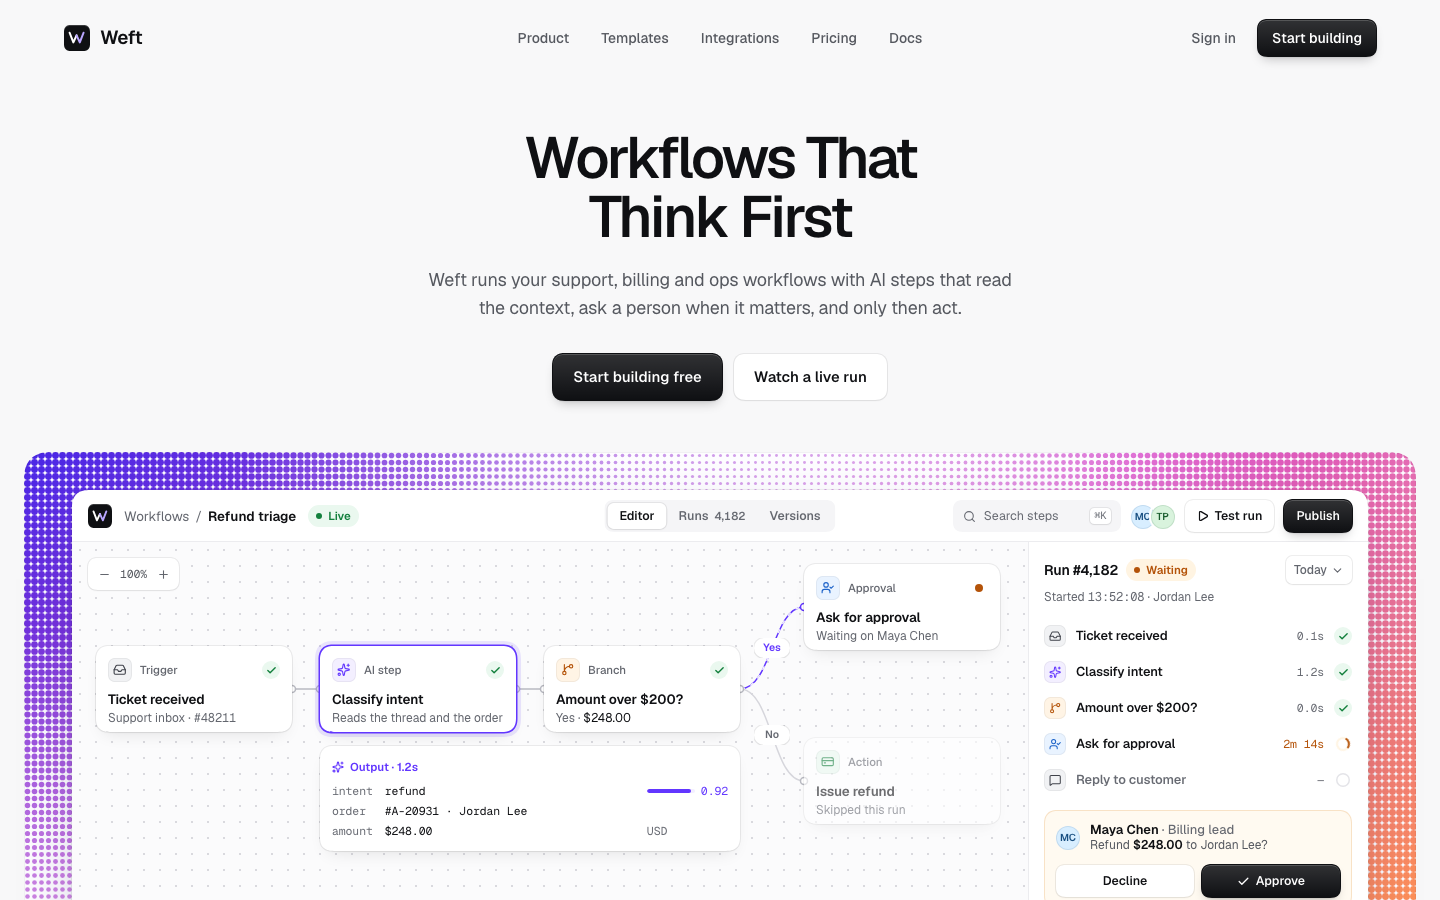
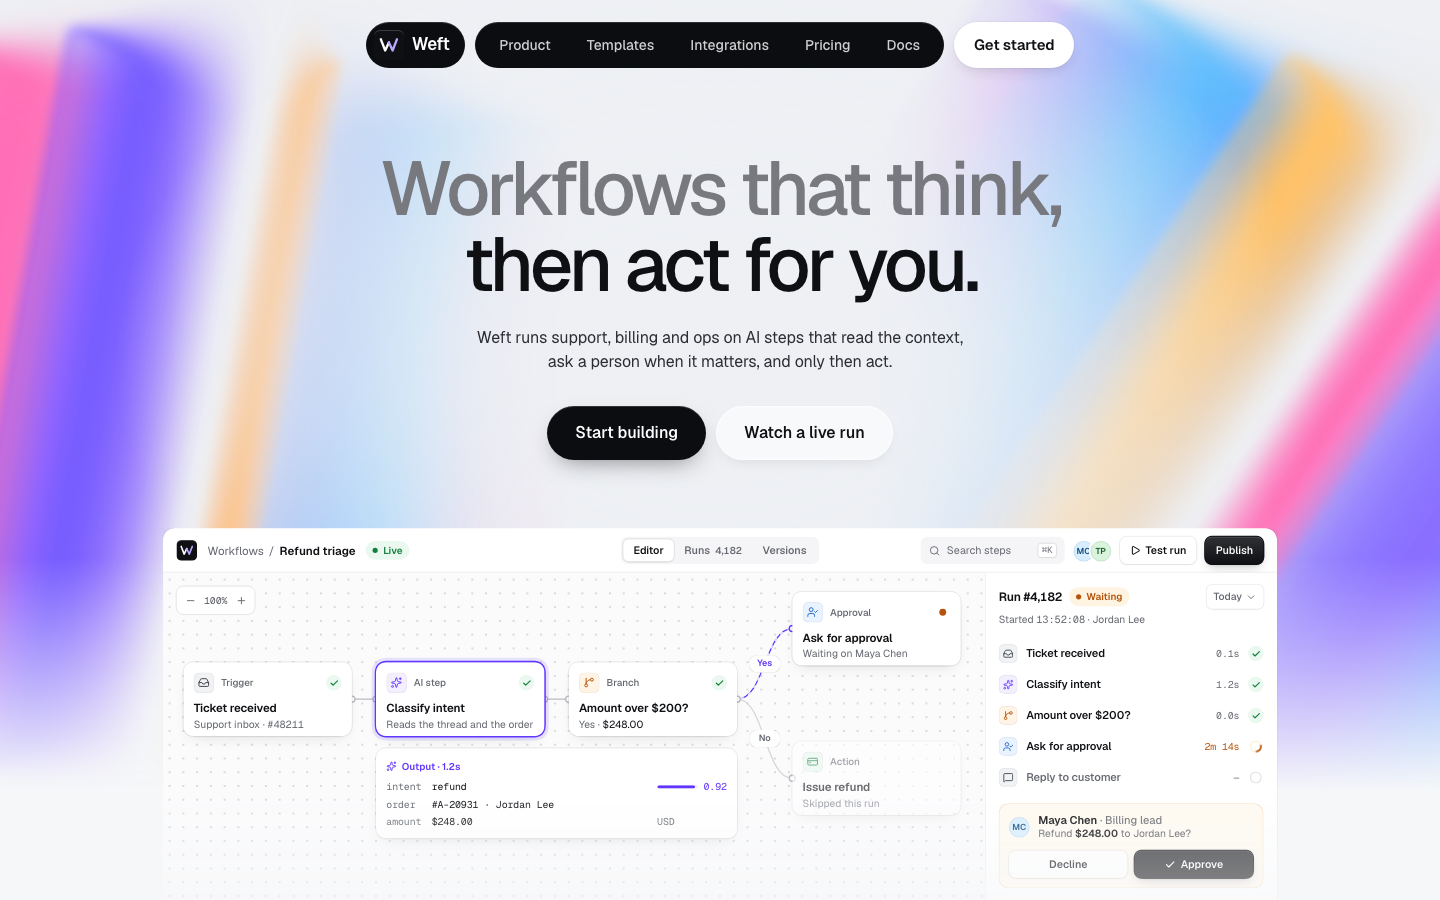
Weft v3: hero replicates Basit's measured Taxo grammar (silk Warp field + grain, Source Serif 4 italic+roman 120/-6px, ringed pill, field arrives last); Marcel-grammar dark tactile 'Add a step' post with a row mid-drag

diff --git a/work/weft/app/src/Hero.tsx b/work/weft/app/src/Hero.tsx
@@ -1,59 +1,76 @@
-// Weft hero (1440x900), Basit grammar (knowledge/web/basit-craft.md, Lowpro pattern): a rendered glass field out of
-// focus at both edges, a misty centre for a big two-tone sentence-case headline at -0.05em, black + frosted pills,
-// and the real product cropped by the fold and dissolving into white (sample data).
+// Weft hero, replicating Basit's Taxo grammar exactly (knowledge/benchmarks/basit/measure/taxo-deep.json):
+// a rendered silk light field, one blue ramp lit from the top, grain in the light and none in the black;
+// a one-line serif headline (italic word + roman word) 120/156 w400 -6px; sub 16/22.4 w300 +0.16px 14px below;
+// one ringed white pill CTA with a blue glow; a 70px frosted nav. The field arrives last, settling from 1.2x.
 import { motion, MotionConfig } from 'motion/react'
 import type { ReactNode } from 'react'
-import Field from './Field'
-import { ease, Logo, Window } from './flow'
+import { Warp } from '@paper-design/shaders-react'
+import { Logo } from './flow'
 
-const T = { field: 0, nav: 0.1, l1: 0.2, l2: 0.35, sub: 0.6, cta: 0.75, win: 0.85, canvas: 1.2 }
-const spring = { type: 'spring', duration: 1.2, bounce: 0 } as const
-const Up = ({ at, y = 40, children, className = '' }: { at: number; y?: number; children: ReactNode; className?: string }) => (
-  <motion.div className={className} initial={{ opacity: 0, y, filter: 'blur(8px)' }} animate={{ opacity: 1, y: 0, filter: 'blur(0px)' }} transition={{ delay: at, ...spring, opacity: { delay: at, duration: 0.6 }, filter: { delay: at, duration: 0.7 } }}>{children}</motion.div>
+const spring = (delay: number, duration = 1.2) => ({ delay, type: 'spring' as const, duration, bounce: 0 })
+const Rise = ({ at, y = 120, children, className = '' }: { at: number; y?: number; children: ReactNode; className?: string }) => (
+  <motion.span className={`inline-block ${className}`} initial={{ opacity: 0, y }} animate={{ opacity: 1, y: 0 }} transition={{ ...spring(at), opacity: { delay: at, duration: 0.6 } }}>{children}</motion.span>
 )
-const GLASS = ['#6f5bff', '#ff6fae', '#4cb3ff', '#ffb36b']
+
+export const Grain = ({ o = 0.7, id = 'g' }: { o?: number; id?: string }) => (
+  <svg aria-hidden className="pointer-events-none absolute inset-0 h-full w-full" style={{ mixBlendMode: 'overlay', opacity: o }}>
+    <filter id={id}><feTurbulence type="fractalNoise" baseFrequency="0.85" numOctaves="3" stitchTiles="stitch" /><feColorMatrix type="saturate" values="0" /></filter>
+    <rect width="100%" height="100%" filter={`url(#${id})`} />
+  </svg>
+)
+
+export function Silk({ frame = 6000, rotation = 200 }: { frame?: number; rotation?: number }) {
+  return (
+    <div aria-hidden className="absolute inset-0 overflow-hidden">
+      <div className="absolute -inset-10" style={{ filter: 'blur(2.5px)' }}>
+        <Warp style={{ width: '100%', height: '100%' }} colors={['#030406', '#0a2f5f', '#2365a4', '#d9e5f5']} shape="edge" shapeScale={0.15} distortion={0.25} swirl={0.6} swirlIterations={10} proportion={0.45} softness={1} rotation={rotation} speed={0} frame={frame} />
+      </div>
+      <div className="absolute inset-0" style={{ background: 'linear-gradient(180deg, transparent 42%, rgb(4 5 6 / 0.85) 72%, #040506 92%)' }} />
+      <Grain />
+    </div>
+  )
+}
+
+/** Taxo pill: 10% white ring, white fill inset 3px, a blue radial glow (blur 15) and stroke at the right */
+export function Pill({ children, w = 176 }: { children: ReactNode; w?: number }) {
+  return (
+    <a href="#" className="group relative grid h-14 place-items-center rounded-[118px] bg-white/10" style={{ width: w }}>
+      <span aria-hidden className="absolute inset-0 rounded-[72px] blur-[15px]" style={{ background: 'radial-gradient(25% 38.4% at 89.6% 39.6%, rgb(59 128 255) 0%, transparent 100%)' }} />
+      <span aria-hidden className="absolute inset-0 rounded-[72px]" style={{ background: 'radial-gradient(17.1% 43% at 89.6% 39.6%, rgb(59 128 255) 0%, transparent 100%)' }} />
+      <span className="absolute inset-[3px] grid place-items-center rounded-[114px] bg-white font-serif text-[16px] font-[600] text-[#080808] transition-colors group-hover:bg-[#f1f4f9]">{children}</span>
+    </a>
+  )
+}
 
 export default function Hero() {
   return (
     <MotionConfig reducedMotion="user">
-      <div className="relative mx-auto h-[900px] w-[1440px] overflow-hidden bg-[#eef0f4]">
-        {/* the light: two glass clusters out of focus, left and right, settling from scale 1.15 (Basit: the field arrives last) */}
-        <motion.div className="absolute inset-0" initial={{ opacity: 0, scale: 1.15 }} animate={{ opacity: 1, scale: 1 }} transition={{ delay: T.field, duration: 1.8, ease: ease.out, opacity: { duration: 1.0 } }}>
-          <div className="absolute -left-[220px] -top-[120px] h-[1100px] w-[860px]" style={{ maskImage: 'linear-gradient(90deg, #000 45%, transparent 92%)' }}><Field w={860} h={1100} colors={GLASS} blur={6} scale={1.15} rotation={100} density={1.5} frame={2400} /></div>
-          <div className="absolute -right-[220px] -top-[80px] h-[1100px] w-[860px]" style={{ maskImage: 'linear-gradient(270deg, #000 45%, transparent 92%)' }}><Field w={860} h={1100} colors={['#4cb3ff', '#8a6cff', '#ff6fae', '#ffc46b']} blur={7} scale={1.15} rotation={124} density={1.5} frame={5200} /></div>
+      <div className="relative mx-auto h-[900px] w-[1440px] overflow-hidden bg-[#040506] text-white" style={{ ['--font-serif' as string]: '"Source Serif 4 Variable", Georgia, serif' }}>
+        <motion.div className="absolute inset-0 origin-[70%_20%]" initial={{ opacity: 0, scale: 1.2 }} animate={{ opacity: 1, scale: 1 }} transition={{ delay: 1.5, duration: 1.5, ease: [0.16, 1, 0.3, 1], opacity: { delay: 1.5, duration: 0.9 } }}>
+          <Silk />
         </motion.div>
-        {/* mist: keeps the reading zone calm and lets the fold fall to white */}
-        <div aria-hidden className="absolute inset-0" style={{ background: 'radial-gradient(42% 46% at 50% 40%, rgb(238 240 244 / 0.92) 30%, rgb(238 240 244 / 0) 100%), linear-gradient(180deg, transparent 62%, #f6f7f9 88%)' }} />
 
-        {/* three-pill nav: black logo, black link capsule, white CTA */}
-        <header className="absolute inset-x-0 top-[22px] z-20 flex justify-center gap-2.5">
-          <Up at={T.nav} y={-30}><a href="#" className="flex h-[46px] items-center gap-2 rounded-full bg-[#0c0d10] pl-2 pr-4 text-[17px] font-[600] tracking-[-0.03em] text-white shadow-[inset_0_1px_0_rgb(255_255_255/0.14)]"><Logo size={30} />Weft</a></Up>
-          <Up at={T.nav + 0.05} y={-30}>
-            <nav aria-label="Main"><ul className="flex h-[46px] items-center gap-1 rounded-full bg-[#0c0d10] px-2 text-[14px] font-[500] text-white/80 shadow-[inset_0_1px_0_rgb(255_255_255/0.14)]">
-              {['Product', 'Templates', 'Integrations', 'Pricing', 'Docs'].map((l) => <li key={l}><a href="#" className="flex h-[34px] items-center rounded-full px-4 transition-colors hover:bg-white/10 hover:text-white">{l}</a></li>)}
-            </ul></nav>
-          </Up>
-          <Up at={T.nav + 0.1} y={-30}><a href="#" className="flex h-[46px] items-center rounded-full bg-white px-5 text-[15px] font-[600] tracking-[-0.01em] shadow-[0_0_0_1px_rgb(15_16_19/0.04),0_6px_16px_-6px_rgb(15_16_19/0.18)]">Get started</a></Up>
-        </header>
+        <motion.header className="absolute inset-x-0 top-0 z-20 flex h-[70px] items-center bg-[rgb(8_8_8/0.7)] px-12 backdrop-blur-[20px]" initial={{ opacity: 0, y: -80 }} animate={{ opacity: 1, y: 0 }} transition={spring(0, 1)}>
+          <a href="#" className="flex items-center gap-2.5 text-[21px] font-[600] tracking-[-0.03em]"><Logo size={30} />Weft</a>
+          <nav aria-label="Main" className="absolute left-1/2 -translate-x-1/2">
+            <ul className="flex items-center gap-10 font-serif text-[16px] font-[300] tracking-[0.01em] text-[#d4d8de]">
+              {['Product', 'Templates', 'Pricing', 'Docs'].map((l) => <li key={l}><a href="#" className="transition-colors hover:text-white">{l}</a></li>)}
+            </ul>
+          </nav>
+          <div className="ml-auto flex items-center gap-1"><Pill>Book a demo</Pill><Pill w={134}>Sign in</Pill></div>
+        </motion.header>
 
-        <main className="absolute inset-x-0 top-[150px] z-10 flex flex-col items-center text-center">
-          <h1 className="text-[76px] font-[500] leading-[1.0] tracking-[-0.05em]">
-            <Up at={T.l1} className="text-[#77797f]">Workflows that think,</Up>
-            <Up at={T.l2}>then act for you.</Up>
+        <main className="absolute inset-x-0 top-[311px] z-10 flex flex-col items-center text-center font-serif">
+          <h1 className="whitespace-nowrap text-[120px] font-[400] leading-[156px] tracking-[-6px]">
+            <Rise at={0.2} className="italic">Thoughtful</Rise> <Rise at={0.4}>automation</Rise>
           </h1>
-          <Up at={T.sub} y={20} className="mt-6"><p className="text-[16px] leading-[24px] tracking-[-0.005em] text-[#2b2d33]">Weft runs support, billing and ops on AI steps that read the context,<br />ask a person when it matters, and only then act.</p></Up>
-          <Up at={T.cta} y={20} className="mt-8 flex items-center gap-2.5 text-[16px]">
-            <a href="#" className="press flex h-[54px] items-center rounded-full bg-[#0c0d10] px-7 font-[550] text-white shadow-[inset_0_1px_0_rgb(255_255_255/0.16),0_10px_24px_-10px_rgb(15_16_19/0.5)]">Start building</a>
-            <a href="#" className="press flex h-[54px] items-center rounded-full bg-white/60 px-7 font-[550] shadow-[inset_0_0_0_1px_rgb(255_255_255/0.7),0_6px_16px_-8px_rgb(15_16_19/0.15)] backdrop-blur-[20px]">Watch a live run</a>
-          </Up>
+          <motion.p className="mt-[14px] text-[16px] font-[300] leading-[22.4px] tracking-[0.16px]" initial={{ opacity: 0, y: 20 }} animate={{ opacity: 1, y: 0 }} transition={{ ...spring(0.8), opacity: { delay: 0.8, duration: 0.6 } }}>
+            AI workflows that read the ticket, check the order, ask the right person, and only then act.
+          </motion.p>
+          <motion.div className="mt-[36px]" initial={{ opacity: 0, y: 20 }} animate={{ opacity: 1, y: 0 }} transition={{ ...spring(1.0), opacity: { delay: 1.0, duration: 0.6 } }}>
+            <Pill>Start building</Pill>
+          </motion.div>
         </main>
-
-        {/* the product, cropped by the fold at ~58% and dissolving into the floor */}
-        <motion.div role="img" aria-label="Weft workflow editor: a refund run paused on an approval (sample data)" className="absolute left-[72px] top-[528px] z-10 h-[560px] w-[1296px]"
-          style={{ scale: 0.86, transformOrigin: '50% 0%', maskImage: 'linear-gradient(180deg, #000 55%, transparent 92%)' }}
-          initial={{ opacity: 0, y: 80 }} animate={{ opacity: 1, y: 0 }} transition={{ delay: T.win, type: 'spring', duration: 1.5, bounce: 0, opacity: { delay: T.win, duration: 0.6 } }}>
-          <Window at={T.canvas} />
-        </motion.div>
       </div>
     </MotionConfig>
   )

diff --git a/work/weft/app/src/Marcel.tsx b/work/weft/app/src/Marcel.tsx
@@ -1,0 +1,94 @@
+// Weft component post in Marcel Kargul's dark tactile grammar (system/product-ui/kargul-tokens.json "dark.tactile";
+// his X component posts: one component at ~40% of a square, a soft light streak, one item caught mid-drag).
+// Square 1000x1000, export at 2x. Sample content.
+import { motion, MotionConfig } from 'motion/react'
+import { Maximize2, Search, Sparkles, PenLine, ScanText, UserCheck, Users, CreditCard, PackageCheck, LayoutGrid, ChevronRight, GripVertical } from 'lucide-react'
+import { Grain } from './Hero'
+
+const ease = [0.16, 1, 0.3, 1] as const
+type Row = { icon: typeof Search; label: string; tone: string; ai?: boolean; lifted?: boolean }
+const SECTIONS: { title: string; rows: Row[] }[] = [
+  { title: 'AI', rows: [
+    { icon: Sparkles, label: 'Classify intent', tone: '#a78bfa', ai: true },
+    { icon: PenLine, label: 'Draft a reply', tone: '#c4b5fd', ai: true },
+    { icon: ScanText, label: 'Extract fields', tone: '#8b9cff', ai: true },
+  ] },
+  { title: 'People', rows: [
+    { icon: UserCheck, label: 'Ask for approval', tone: '#60a5fa', lifted: true },
+    { icon: Users, label: 'Assign to teammate', tone: '#38bdf8' },
+  ] },
+  { title: 'Actions', rows: [
+    { icon: CreditCard, label: 'Issue refund', tone: '#34d399' },
+    { icon: PackageCheck, label: 'Update order', tone: '#fbbf24' },
+  ] },
+]
+
+function Cursor() {
+  // closed-hand grab cursor
+  return (
+    <svg width="30" height="30" viewBox="0 0 26 26" aria-hidden style={{ filter: 'drop-shadow(0 2px 4px rgb(0 0 0 / 0.5))' }}>
+      <path d="M7.5 10.2V9c0-1 .8-1.7 1.7-1.7s1.7.8 1.7 1.7v-.6c0-1 .8-1.7 1.7-1.7s1.7.8 1.7 1.7v.6c0-1 .8-1.7 1.7-1.7s1.7.8 1.7 1.7v1c0-.9.8-1.6 1.6-1.6.9 0 1.6.7 1.6 1.6v5.2c0 3.6-2.9 6.5-6.5 6.5h-1.4c-1.9 0-3.6-.9-4.8-2.4l-2.7-3.5c-.6-.8-.5-1.9.3-2.5.7-.6 1.8-.5 2.4.2l.5.6v-3.6Z" fill="#fff" stroke="#0c0c0f" strokeWidth="1.3" strokeLinejoin="round" />
+    </svg>
+  )
+}
+
+const RowView = ({ r, ghost = false }: { r: Row; ghost?: boolean }) => (
+  <div className="flex h-11 items-center gap-3 px-3">
+    <r.icon size={19} strokeWidth={1.8} style={{ color: r.tone, opacity: ghost ? 0.35 : 1 }} />
+    <span className={`text-[16px] font-[500] tracking-[-0.01em] ${ghost ? 'text-white/25' : 'text-white/90'}`}>{r.label}</span>
+    {r.ai && !ghost && <span className="ml-auto rounded-[6px] bg-[rgb(139_92_246/0.14)] px-1.5 py-0.5 text-[11px] font-[600] tracking-[0.02em] text-[#b9a6ff] shadow-[inset_0_0_0_1px_rgb(167_139_250/0.2)]">AI</span>}
+  </div>
+)
+
+export default function Marcel() {
+  return (
+    <MotionConfig reducedMotion="user">
+      <div className="relative overflow-hidden bg-[#0c0c0f]" style={{ width: 1000, height: 1000, fontFamily: '"Inter Variable", system-ui, sans-serif', fontFeatureSettings: '"cv11", "ss01"' }}>
+        {/* light streak from the top left, and a faint floor */}
+        <div aria-hidden className="absolute inset-0" style={{ background: 'linear-gradient(128deg, rgb(255 255 255 / 0.15) 0%, rgb(255 255 255 / 0.05) 20%, transparent 42%), radial-gradient(60% 40% at 50% 100%, rgb(80 22 255 / 0.10), transparent 70%)' }} />
+        <Grain o={0.35} id="mg" />
+
+        <motion.section aria-label="Add a step, sample content" className="absolute left-1/2 top-[118px] w-[420px] -translate-x-1/2 rounded-[22px] bg-[#141417]"
+          style={{ boxShadow: '0 0 0 1px #050506, inset 0 1px 0 rgb(255 255 255 / 0.07), inset 0 0 0 1px rgb(255 255 255 / 0.04), 0 40px 80px -24px rgb(0 0 0 / 0.8)', backgroundImage: 'linear-gradient(140deg, rgb(255 255 255 / 0.05), transparent 30%)' }}
+          initial={{ opacity: 0, y: 24 }} animate={{ opacity: 1, y: 0 }} transition={{ duration: 1.2, ease }}>
+          <div className="flex h-[68px] items-center justify-between px-6 shadow-[inset_0_-1px_0_rgb(255_255_255/0.06)]">
+            <span className="text-[19px] font-[550] tracking-[-0.015em] text-white">Add a step</span>
+            <Maximize2 size={17} className="text-white/45" />
+          </div>
+          <div className="px-5 pt-5">
+            <div className="flex h-11 items-center gap-2.5 rounded-[12px] bg-white/[0.03] px-3.5 text-[15px] text-white/40 shadow-[inset_0_0_0_1px_rgb(255_255_255/0.06)]">
+              <Search size={16} />Search steps<span className="ml-auto rounded-[6px] bg-white/[0.06] px-1.5 py-0.5 text-[11.5px] text-white/45">⌘K</span>
+            </div>
+          </div>
+          <div className="px-3 pb-3 pt-2">
+            {SECTIONS.map((s) => (
+              <div key={s.title} className="pt-4">
+                <div className="px-3 pb-1.5 text-[12.5px] font-[500] uppercase tracking-[0.06em] text-white/40">{s.title}</div>
+                {s.rows.map((r) => r.lifted
+                  ? <div key={r.label} className="rounded-[12px] bg-white/[0.02] shadow-[inset_0_0_0_1px_rgb(255_255_255/0.04)]"><RowView r={r} ghost /></div>
+                  : <RowView key={r.label} r={r} />)}
+              </div>
+            ))}
+          </div>
+          <div className="flex h-[60px] items-center gap-3 px-6 shadow-[inset_0_1px_0_rgb(255_255_255/0.06)]">
+            <LayoutGrid size={18} className="text-white/55" />
+            <span className="text-[16px] font-[500] text-white/85">Browse templates</span>
+            <ChevronRight size={18} className="ml-auto text-white/40" />
+          </div>
+        </motion.section>
+
+        {/* the lifted row, mid-drag, out past the card edge */}
+        <motion.div className="absolute flex h-[52px] w-[372px] items-center gap-3 rounded-[14px] px-4"
+          style={{ left: 352, top: 500, background: 'linear-gradient(180deg, #27272e, #1b1b20)', boxShadow: '0 0 0 1px #050506, inset 0 1px 0 rgb(255 255 255 / 0.10), inset 0 0 0 1px rgb(255 255 255 / 0.05), 0 24px 48px -12px rgb(0 0 0 / 0.75), 0 8px 16px -8px rgb(0 0 0 / 0.6)', rotate: -1.5 }}
+          initial={{ opacity: 0, x: -60, y: 0 }} animate={{ opacity: 1, x: 0, y: 0 }} transition={{ delay: 0.6, duration: 1.1, ease }}>
+          <UserCheck size={20} strokeWidth={1.8} style={{ color: '#60a5fa' }} />
+          <span className="text-[17px] font-[550] tracking-[-0.01em] text-white">Ask for approval</span>
+          <GripVertical size={18} className="ml-auto text-white/45" />
+        </motion.div>
+        <motion.div className="pointer-events-none absolute" style={{ left: 654, top: 528 }} initial={{ opacity: 0, x: -60 }} animate={{ opacity: 1, x: 0 }} transition={{ delay: 0.6, duration: 1.1, ease }}>
+          <Cursor />
+        </motion.div>
+      </div>
+    </MotionConfig>
+  )
+}

diff --git a/work/weft/app/src/Lab.tsx b/work/weft/app/src/Lab.tsx
@@ -1,20 +1,30 @@
-// Field lab (#/lab): four field variants side by side at hero proportions, to pick by eye before building.
-import Field, { type FieldProps } from './Field'
+// Field lab (#/lab): Taxo-grammar silk fields (one blue ramp, lit top right, falling to black), fine grain in the light only.
+import { Warp } from '@paper-design/shaders-react'
 
-const V: (Partial<FieldProps> & { name: string; bg: string })[] = [
-  { name: 'glass default', bg: '#eef0f4' },
-  { name: 'glass, cool, big', bg: '#eceef3', colors: ['#5b6cff', '#9b7bff', '#59c3ff', '#ff8fc8'], scale: 1.6, rotation: 90, blur: 22 },
-  { name: 'glass warm sides', bg: '#f1eff2', colors: ['#ff7a59', '#ff4fa0', '#8a6cff', '#ffc46b'], scale: 1.3, rotation: 128, offsetY: 0.1, blur: 14 },
-  { name: 'glass sharp', bg: '#eef0f4', blur: 4, scale: 1.2 },
-]
+const RAMP = ['#030406', '#0a2f5f', '#2365a4', '#cfe0f5']
+const V = [
+  { name: 'edge .15', shape: 'edge', shapeScale: 0.15, distortion: 0.25, swirl: 0.6, proportion: 0.45, rotation: 200 },
+  { name: 'edge .3', shape: 'edge', shapeScale: 0.3, distortion: 0.35, swirl: 0.9, proportion: 0.5, rotation: 220 },
+  { name: 'stripes', shape: 'stripes', shapeScale: 0.12, distortion: 0.3, swirl: 0.7, proportion: 0.42, rotation: 210 },
+  { name: 'checks', shape: 'checks', shapeScale: 0.08, distortion: 0.2, swirl: 0.8, proportion: 0.45, rotation: 200 },
+] as const
+
+export const Grain = ({ o = 0.32 }: { o?: number }) => (
+  <svg aria-hidden className="pointer-events-none absolute inset-0 h-full w-full" style={{ mixBlendMode: 'overlay', opacity: o }}>
+    <filter id="grain"><feTurbulence type="fractalNoise" baseFrequency="0.9" numOctaves="3" stitchTiles="stitch" /><feColorMatrix type="saturate" values="0" /></filter>
+    <rect width="100%" height="100%" filter="url(#grain)" />
+  </svg>
+)
 
 export default function Lab() {
   return (
     <div className="grid grid-cols-2 gap-4 bg-white p-4">
-      {V.map(({ name, bg, ...p }) => (
-        <div key={name} className="relative overflow-hidden rounded-[16px]" style={{ width: 720, height: 450, background: bg }}>
-          <Field w={720} h={450} {...p} />
-          <span className="absolute left-3 top-3 rounded-full bg-white/80 px-2 py-1 text-[12px]">{name}</span>
+      {V.map((v) => (
+        <div key={v.name} className="relative overflow-hidden rounded-[16px]" style={{ width: 720, height: 450 }}>
+          <Warp style={{ width: '100%', height: '100%' }} colors={[...RAMP]} shape={v.shape} shapeScale={v.shapeScale} distortion={v.distortion} swirl={v.swirl} swirlIterations={10} proportion={v.proportion} softness={1} rotation={v.rotation} speed={0} frame={6000} />
+          <div className="absolute inset-0" style={{ background: 'linear-gradient(180deg, transparent 45%, #030406 95%)' }} />
+          <Grain />
+          <span className="absolute left-3 top-3 rounded-full bg-white/80 px-2 py-1 text-[12px]">{v.name}</span>
         </div>
       ))}
     </div>

diff --git a/work/weft/app/src/index.css b/work/weft/app/src/index.css
@@ -1,11 +1,15 @@
 @import "tailwindcss";
 @import "@fontsource-variable/geist";
+@import "@fontsource-variable/inter/opsz.css";
 @import "@fontsource-variable/geist-mono";
+@import "@fontsource-variable/source-serif-4/opsz.css";
+@import "@fontsource-variable/source-serif-4/opsz-italic.css";
 /* Apple continuous corners on every rounded box (founder: squircles always); pills and circles stay round */
 @import "./squircle.css";
 @theme {
   --font-sans: "Geist Variable", ui-sans-serif, system-ui, sans-serif;
   --font-mono: "Geist Mono Variable", ui-monospace, monospace;
+  --font-serif: "Source Serif 4 Variable", Georgia, serif;
 }
 /* Weft ladder: Kestrel-clean neutrals, one violet for AI steps; green/amber only for run state */
 :root {

diff --git a/work/weft/app/src/main.tsx b/work/weft/app/src/main.tsx
@@ -4,7 +4,8 @@ import './index.css'
 import Hero from './Hero'
 import Post from './Post'
 import Lab from './Lab'
+import Marcel from './Marcel'
 
 // #/post -> the square post, #/lab -> field variants, anything else -> the hero
-const View = location.hash === '#/post' ? Post : location.hash === '#/lab' ? Lab : Hero
+const View = location.hash === '#/post' ? Post : location.hash === '#/lab' ? Lab : location.hash === '#/marcel' ? Marcel : Hero
 createRoot(document.getElementById('root')!).render(<StrictMode><View /></StrictMode>)
